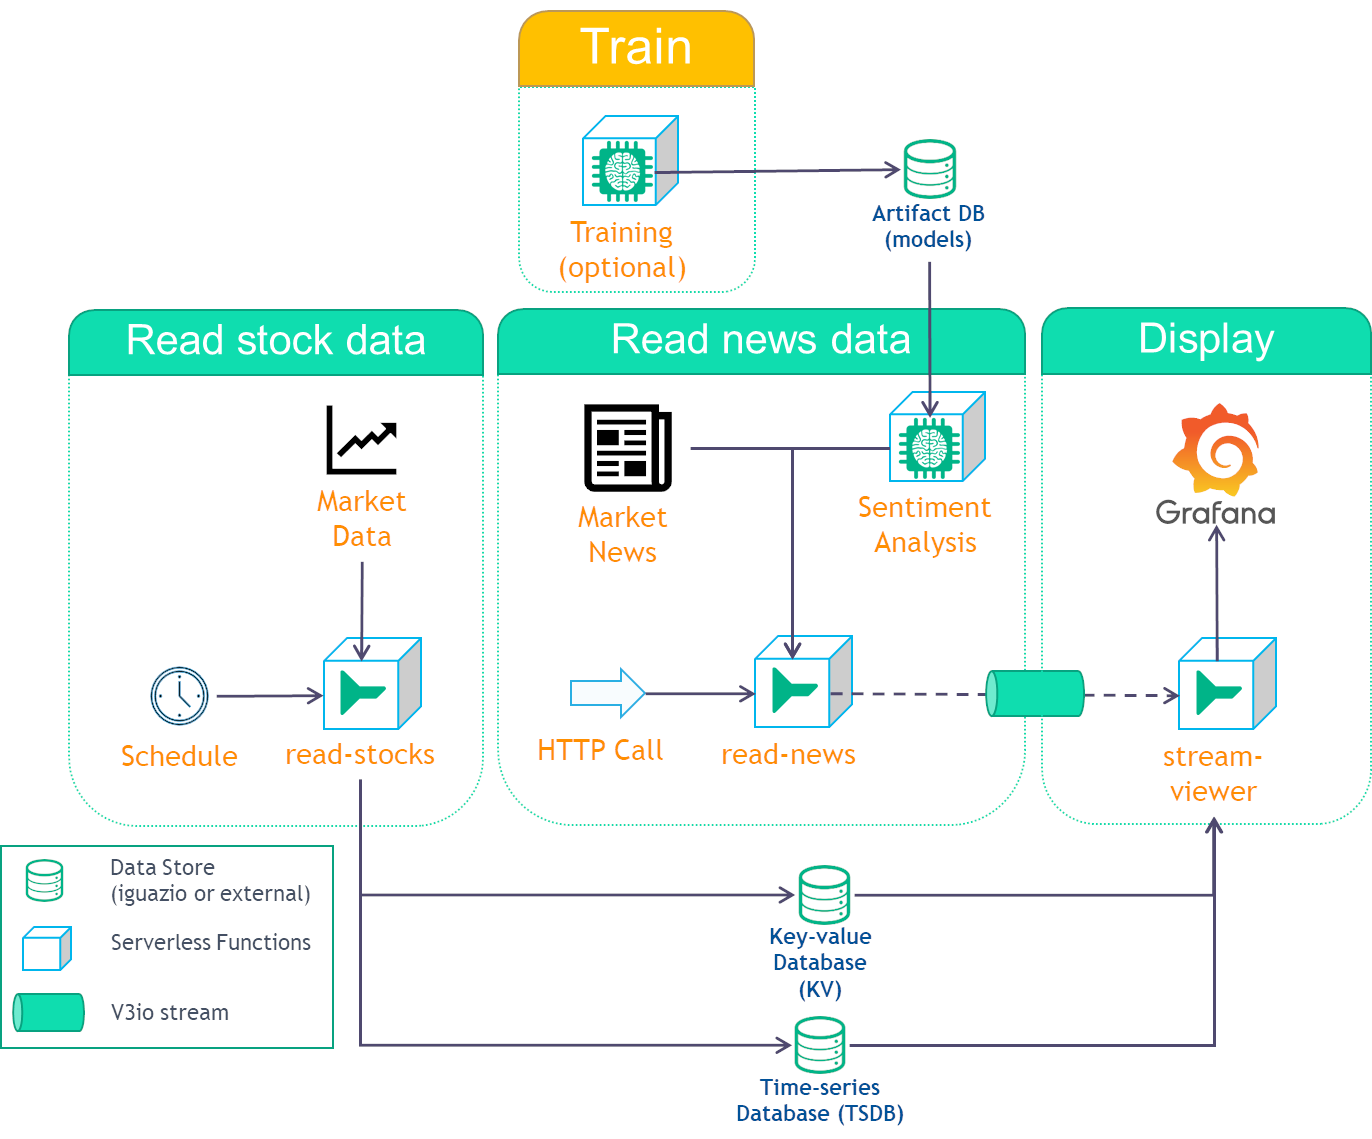
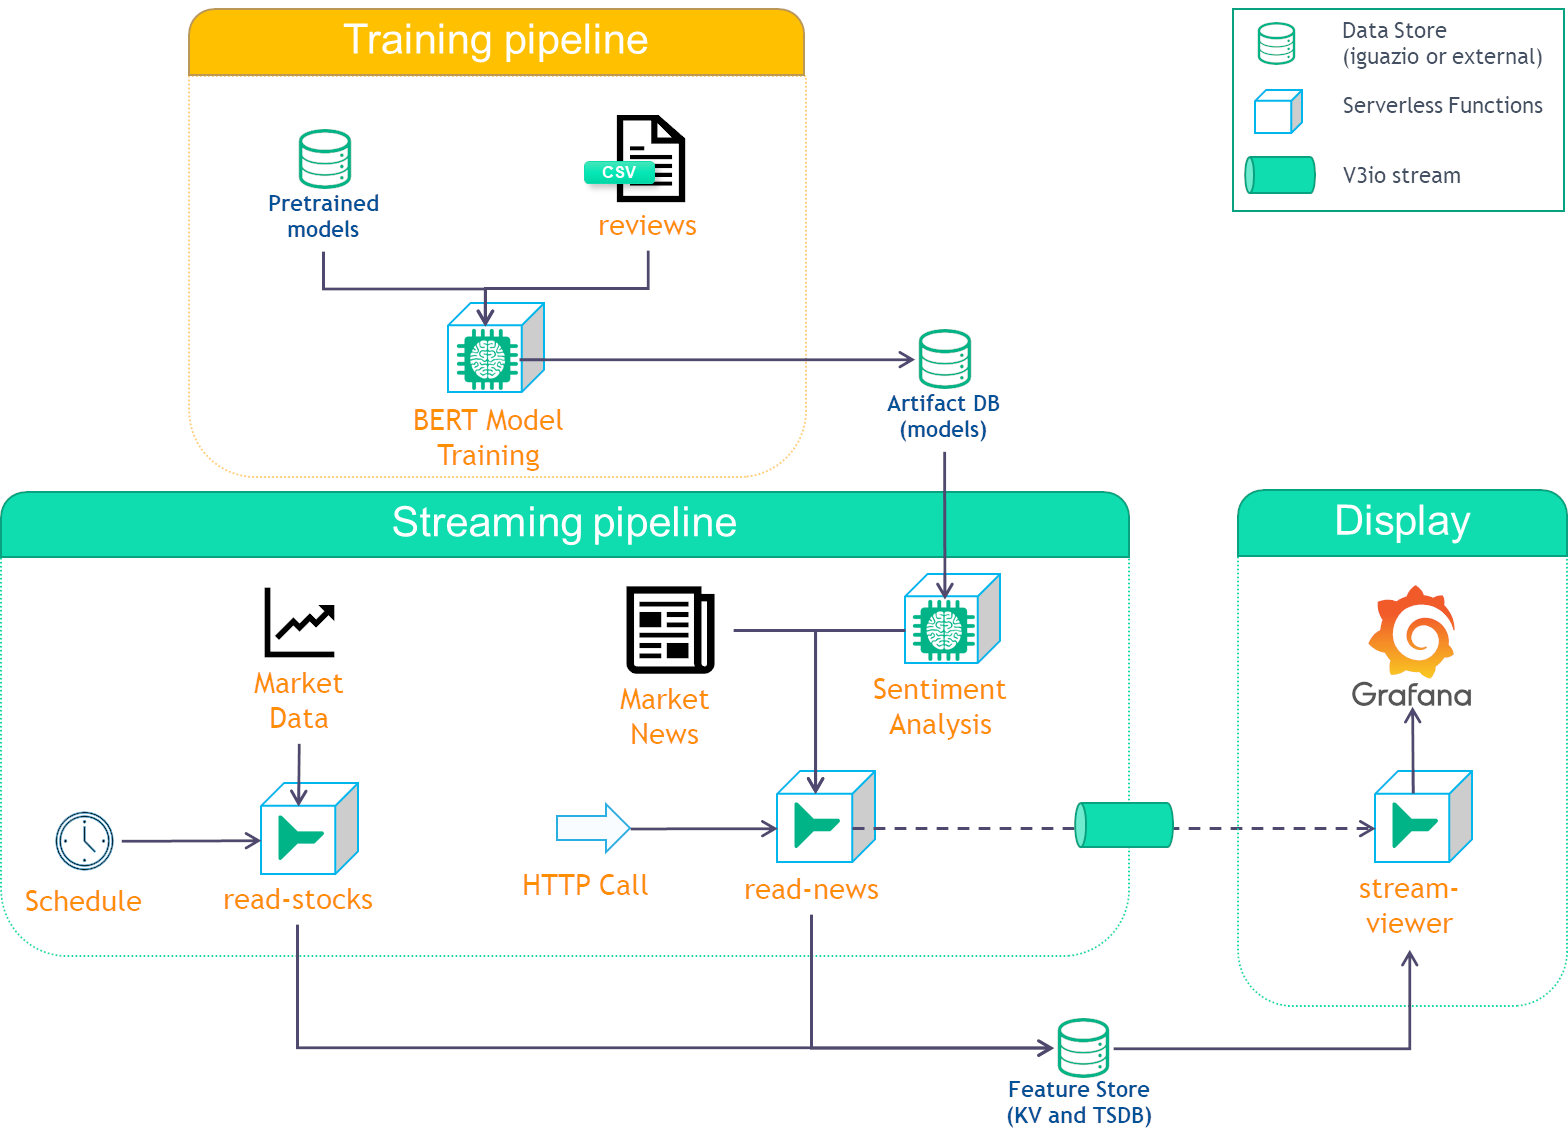
diagram and readme updates

diff --git a/README.md b/README.md
@@ -2,19 +2,19 @@
 
 A common requirement is to run your data engineering pipeline as part of the serving. This is often done by reading data from external data sources and generating insights using machine learning models.
 
-This demo reads stock data, analyzes the related market news, and displays a dashboard of the data. The demo illustrates:
 
-- The ease of deploying Python code to a scalable function (using Nuclio).
-- Deploying and running an NLP model to perform Sentiment analysis.
-- Integration with Iguazio’s Real-Time Multi-Model Data Layer.
-- Leveraging machine-learning to generate insights.
-- Processing streaming data to a user friendly dashboard.
+This demo reads stock data, analyzes the related market news, and displays a dashboard of the data. In this demo we show how to
+
+1. Train a sentiment analysis model using BERT and deploy the model
+2. Deploying Python code to a scalable function (using Nuclio).
+3. Integrate with Iguazio’s Real-Time Multi-Model Data Layer (time-series and key-value storage).
+4. Leverage machine-learning to generate insights.
+5. Process streaming data to a user friendly dashboard.
 
 The demo flow is as follows:
 <img src="assets/images/stocks-demo-diagram.png" alt="stocks demo flow" height="600" />
 
+- Train the sentiment analysis model using BERT and deploy the model.
 - read-stocks is executed at pre-defined intervals and reads stock data from a market data source. The latest stock data is updated in a key-value database and a time-series database is updated.
 - read-news is executed per HTTP request, it reads market news related to the requested stock, and runs a model that analyzes the sentiment of that news item. The results are written to a v3io stream.
 - stream-viewer reads the results from the stream, and combines the sentiment information with the stock data from the key-value database and the time-series database. This data is displayed in Grafana.
-
-An optional training notebook creates the model and deploys it.
